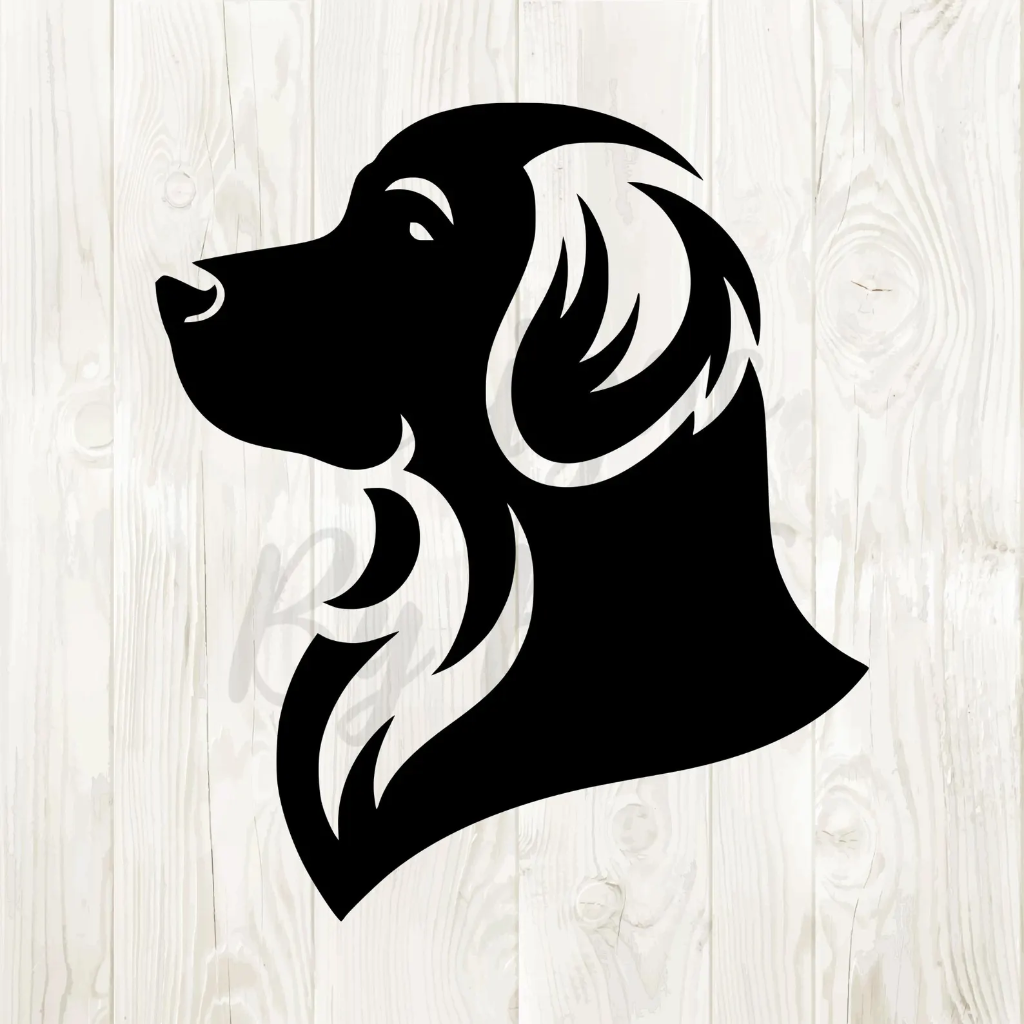
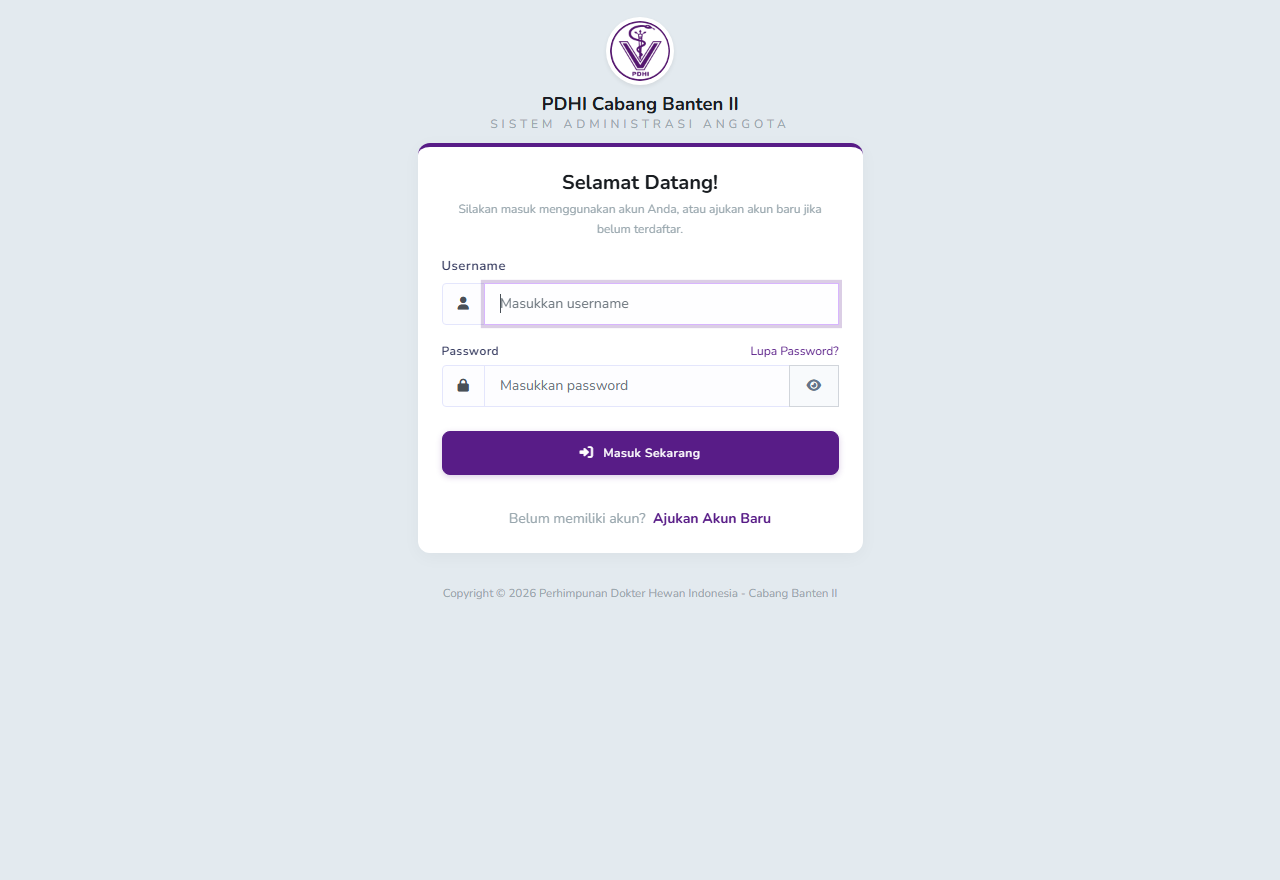
docs: update login screenshot from local vhost and rename section to Tech Stack

diff --git a/README.md b/README.md
@@ -69,7 +69,7 @@ Halaman login modern dengan maskot interaktif *puppy* dan *cat arm* yang respons
 
 ---
 
-## 🛠 Tumpukan Teknologi
+## 🛠 Tech Stack
 
 - **Backend**: [Laravel 8](https://laravel.com/)
 - **Bahasa Pemrograman**: PHP 8.x
